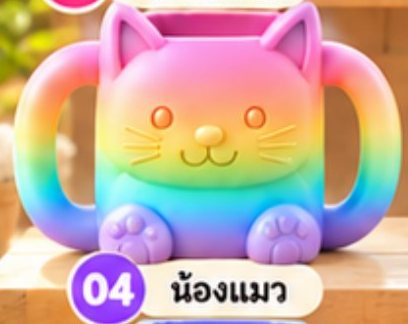
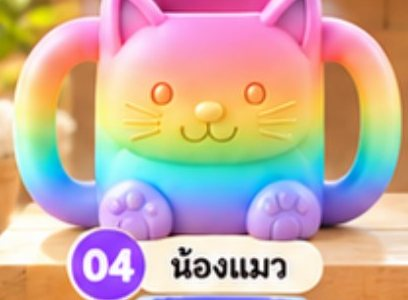
shop-order: Sip Buddy preview switches between single colour and Color Pop (black face details)
Claude-Session: https://claude.ai/code/session_019RUqranrGtQ3HGsCHnWydx

diff --git a/shop-order.html b/shop-order.html
@@ -44,6 +44,7 @@ h1{font-family:var(--f-display);font-weight:400;font-size:30px;margin:4px 0 2px;
 .pv figcaption{position:absolute;left:8px;bottom:8px;display:flex;align-items:center;gap:6px;background:rgba(255,255,255,.92);border-radius:999px;padding:3px 10px 3px 4px;font-size:12.5px;font-weight:600}
 .pv figcaption i{width:16px;height:16px;border-radius:50%;box-shadow:inset 0 0 0 1px rgba(44,36,32,.15)}
 .pv.sip figcaption{padding-left:10px}
+.pv-tag{position:absolute;right:8px;top:8px;background:rgba(44,36,32,.82);color:#fff;border-radius:999px;padding:2px 10px;font-size:12px;font-weight:600}
 .pv.empty{aspect-ratio:5/4;display:grid;place-items:center;color:var(--muted);font-size:13px;text-align:center;padding:12px;border:2px dashed var(--soft);background:transparent}
 .pv-wrap .colorrow{grid-template-columns:1fr 1fr}
 .crow.on{box-shadow:inset 0 0 0 2px var(--accent)}
@@ -295,7 +296,7 @@ function renderConf(){
     box.append(
       el('span',{class:'lbl'},'1) เลือกแบบ',el('small',{},'แตะหมายเลขแบบที่ต้องการ')),
       el('div',{class:'pv-wrap'},
-      sipSel.design!=null?el('figure',{class:'pv sip'},el('img',{src:'sip/sip-'+String(sipSel.design+1).padStart(2,'0')+'.jpg',alt:'Sip Buddy แบบ '+p.designs[sipSel.design]})):el('figure',{class:'pv sip empty'},el('span',{},'แตะหมายเลขแบบ เพื่อดูรูป')),
+      sipSel.design!=null?el('figure',{class:'pv sip'},el('img',{src:'sip/sip-'+String(sipSel.design+1).padStart(2,'0')+(sipSel.opt===0?'-s':'')+'.jpg',alt:'Sip Buddy แบบ '+p.designs[sipSel.design]+(sipSel.opt===0?' สีเดียว':' Color Pop')}),el('span',{class:'pv-tag'},sipSel.opt===0?'สีเดียว (สีรุ้งทั้งตัว)':'Color Pop · ใบหน้าสีดำ')):el('figure',{class:'pv sip empty'},el('span',{},'แตะหมายเลขแบบ เพื่อดูรูป')),
       el('div',{class:'chips'},p.designs.map((d,i)=>el('button',{type:'button',class:'chip','aria-pressed':String(sipSel.design===i),onclick:()=>{sipSel.design=i;renderConf()}},el('b',{},String(i+1).padStart(2,'0')),d))),
       ),
       el('span',{class:'lbl'},'2) เลือกแบบสี'),
